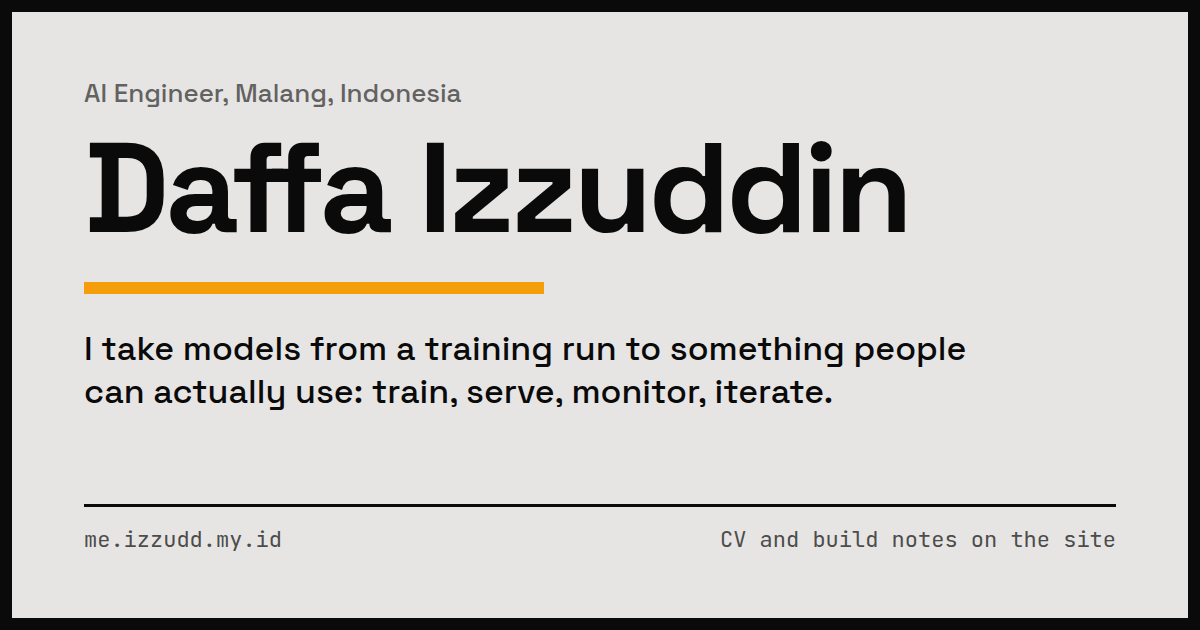
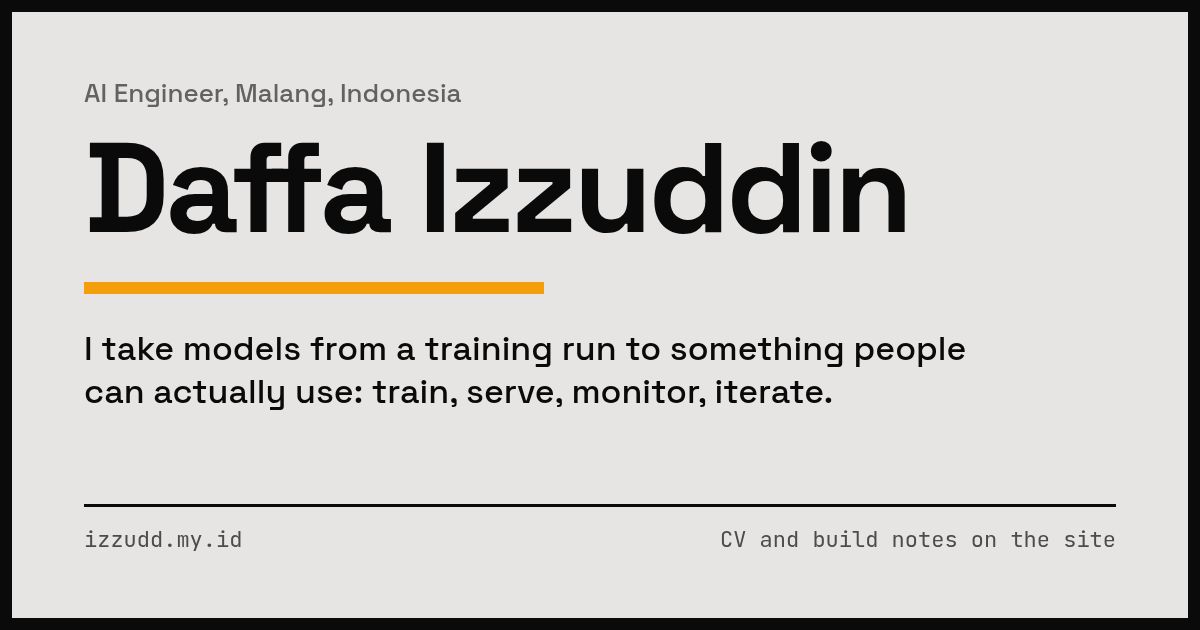
content: gmail address, izzudd.my.id as canonical, new og card
- email: daffaizzuddin.w@gmail.com in profile, JSON-LD and README
- canonical, og:url, og:image and JSON-LD url now point at izzudd.my.id
- og.png re-shot with the apex domain in the footer
- content/TODO.md moved out of the repo (kept in the private vault)

diff --git a/app/pages/index.vue b/app/pages/index.vue
@@ -82,15 +82,15 @@ useHead({
         'I take models from a training run to something people can actually use: train, serve, monitor, iterate.',
     },
     { property: 'og:type', content: 'profile' },
-    { property: 'og:url', content: 'https://me.izzudd.my.id' },
-    { property: 'og:image', content: 'https://me.izzudd.my.id/og.png' },
+    { property: 'og:url', content: 'https://izzudd.my.id' },
+    { property: 'og:image', content: 'https://izzudd.my.id/og.png' },
     { property: 'og:image:width', content: '1200' },
     { property: 'og:image:height', content: '630' },
     { property: 'og:image:alt', content: 'Daffa Izzuddin, AI Engineer' },
     { name: 'twitter:card', content: 'summary_large_image' },
-    { name: 'twitter:image', content: 'https://me.izzudd.my.id/og.png' },
+    { name: 'twitter:image', content: 'https://izzudd.my.id/og.png' },
   ],
-  link: [{ rel: 'canonical', href: 'https://me.izzudd.my.id' }],
+  link: [{ rel: 'canonical', href: 'https://izzudd.my.id' }],
   script: [
     {
       type: 'application/ld+json',
@@ -99,8 +99,8 @@ useHead({
         '@type': 'Person',
         name: 'Daffa Izzuddin',
         jobTitle: 'AI Engineer',
-        url: 'https://me.izzudd.my.id',
-        email: 'mailto:halo@izzudd.my.id',
+        url: 'https://izzudd.my.id',
+        email: 'mailto:daffaizzuddin.w@gmail.com',
         address: { '@type': 'PostalAddress', addressLocality: 'Malang', addressCountry: 'ID' },
         sameAs: [
           'https://github.com/izzudd',

diff --git a/scripts/build-readme.ts b/scripts/build-readme.ts
@@ -16,7 +16,7 @@ import { parse as parseYaml } from 'yaml'
 const ROOT = new URL('..', import.meta.url).pathname
 const CONTENT = join(ROOT, 'content')
 const README = join(ROOT, 'README.md')
-const SITE = 'https://me.izzudd.my.id'
+const SITE = 'https://izzudd.my.id'
 
 type Frontmatter = Record<string, any>
 

diff --git a/scripts/og-card.html b/scripts/og-card.html
@@ -98,7 +98,7 @@
       iterate.
     </p>
     <div class="foot">
-      <span>me.izzudd.my.id</span>
+      <span>izzudd.my.id</span>
       <span>CV and build notes on the site</span>
     </div>
   </body>

diff --git a/README.md b/README.md
@@ -6,7 +6,7 @@
 
 `Open to AI engineering roles, remote and full time`
 
-[Portfolio](https://me.izzudd.my.id) · [CV](https://me.izzudd.my.id/cv) · [GitHub](https://github.com/izzudd) · [LinkedIn](https://www.linkedin.com/in/daffa-izzuddin/) · [Writing](https://www.invasikode.com) · [Email](mailto:halo@izzudd.my.id)
+[Portfolio](https://izzudd.my.id) · [CV](https://izzudd.my.id/cv) · [GitHub](https://github.com/izzudd) · [LinkedIn](https://www.linkedin.com/in/daffa-izzuddin/) · [Writing](https://www.invasikode.com) · [Email](mailto:daffaizzuddin.w@gmail.com)
 
 ## What I do
 

diff --git a/CONTENT.md b/CONTENT.md
@@ -2,7 +2,6 @@
 
 The site and `README.md` are both generated from the Markdown files in `content/`.
 Nothing is hardcoded in the components: if a section looks empty, the folder is empty.
-Open items live in `content/TODO.md`, which is never rendered.
 
 | I want to change | Edit |
 | --- | --- |

diff --git a/content/profile.md b/content/profile.md
@@ -13,7 +13,7 @@ links:
     href: https://www.invasikode.com
   - label: CV
     href: /cv
-email: halo@izzudd.my.id
+email: daffaizzuddin.w@gmail.com
 ---
 
 I am an AI engineer who likes the unglamorous half of machine learning: getting a model out of the
